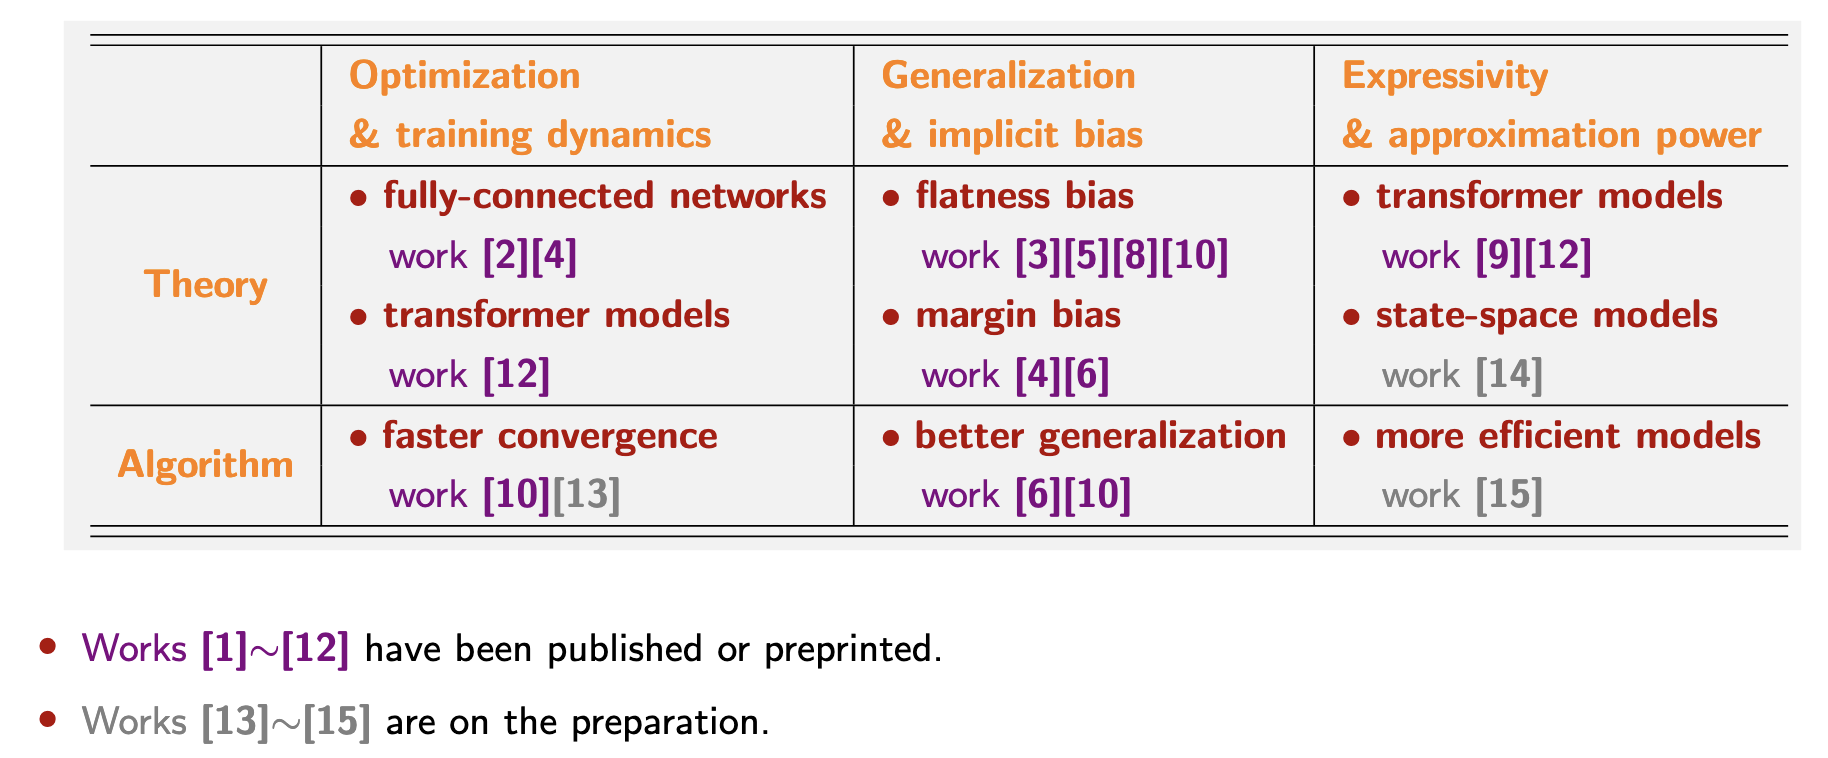
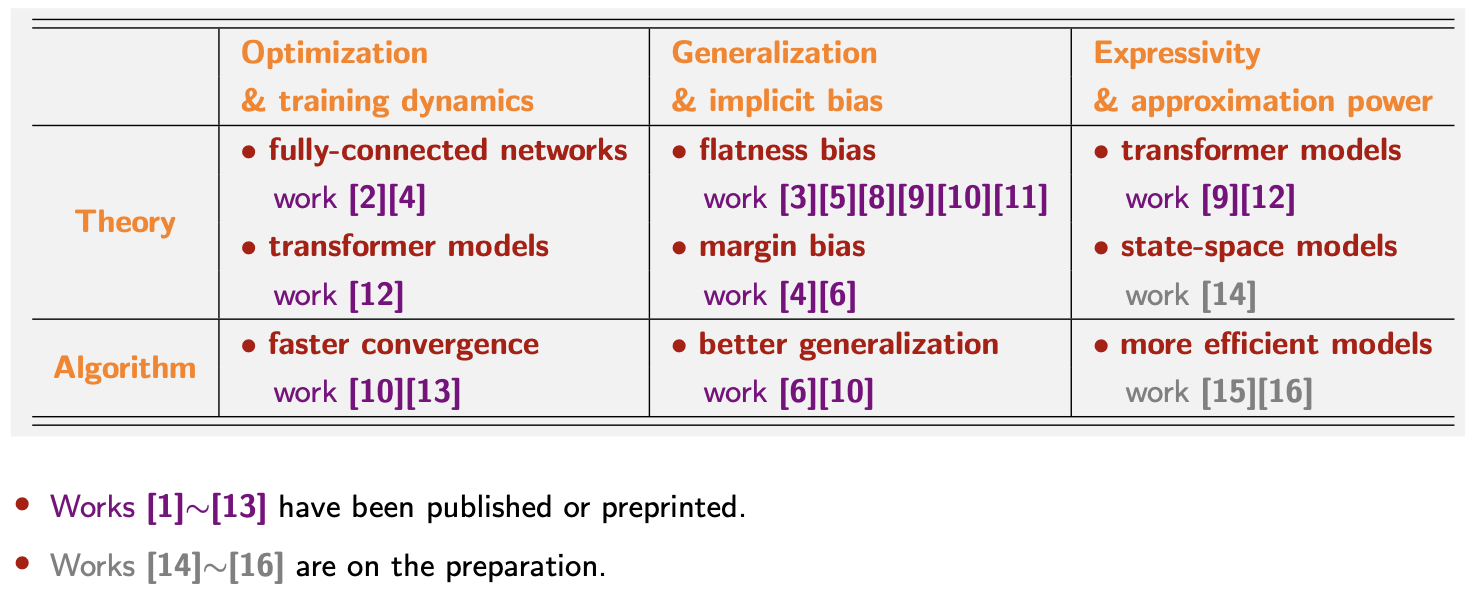
0204

diff --git a/research.html b/research.html
@@ -40,26 +40,26 @@
 </li>
 <li><p><tt>Generalization</tt>: How to measure the generalization ability of neural networks. [1]</p>
 </li>
-<li><p><tt>Algorithm Design</tt>: For machine learning problems, design new optimization algorithms which can which can (i) converge faster [10]; (ii) generalize better [6][10]</p>
+<li><p><tt>Algorithm Design</tt>: For machine learning problems, design new optimization algorithms which can which can (i) converge faster [10]; (ii) generalize better [6][10][13]</p>
 </li></ul>
 </li>
-<li><p><b>Transformer and Large Language Model</b>: theory and algorithm. [8][10][12]</p>
+<li><p><b>Transformer and Large Language Model</b>: theory and algorithm. [8][10][12][13]</p>
 <ul>
 <li><p><tt>Expressive Power</tt>: The expressive power and mechanisms of Transformer [8][12]; the mechanisms of in-context learning[12]; the expressivity of state-space models.</p>
 </li>
-<li><p><tt>Algorithm Design</tt>: Design faster optimizers for training LLMs [10]; design more efficient model architectures; design more efficient strategy for data selection</p>
+<li><p><tt>Algorithm Design</tt>: Design faster optimizers for training LLMs [10][13]; design more efficient model architectures; design more efficient strategy for data selection</p>
 </li></ul>
 </li>
-<li><p><b>Non-convex and Convex Optimization</b>: theory and algorithm. [2][4][6][10][11][12]</p>
+<li><p><b>Non-convex and Convex Optimization</b>: theory and algorithm. [2][4][6][10][11][12][13]</p>
 <ul>
 <li><p><tt>Convex Optimization in ML</tt>. [6]</p>
 </li>
-<li><p><tt>Non-convex Optimization in ML</tt>. [2][4][10][11][12]</p>
+<li><p><tt>Non-convex Optimization in ML</tt>. [2][4][10][11][12][13]</p>
 </li>
-<li><p><tt>Algorithm Design</tt>: Design faster optimizers for training neural networks [10]; accelerate the convergence for the problems with specific structure [6].</p>
+<li><p><tt>Algorithm Design</tt>: Design faster optimizers for training neural networks [10][13]; accelerate the convergence for the problems with specific structure [6].</p>
 </li></ul>
 </li>
-<li><p><b>CV and NLP</b>: algorithm and application. [7]</p>
+<li><p><b>CV and NLP</b>: algorithm and application. [7][10][13]</p>
 </li>
 </ul>
 <h2>Recent Publications and Preprints</h2>

diff --git a/index.html b/index.html
@@ -76,13 +76,13 @@ Beijing, China, 100084<br /></p>
 <p>Recently, I am dedicated to use theory to design algorithms elegantly. </p>
 <p>My recent research topics are</p>
 <ul>
-<li><p><b>Deep Learning Theory</b>: <b>optimization</b>, <b>generalization</b>, <b>implicit bias</b>, and <b>expressivity</b>. [1][2][3][4][5][6][8][9][10][11][12]</p>
+<li><p><b>Deep Learning Theory</b>: <b>optimization</b>, <b>generalization</b>, <b>implicit bias</b>, and <b>expressivity</b>. [1][2][3][4][5][6][8][9][10][11][12][13]</p>
 </li>
-<li><p><b>Transformer</b> and <b>Large Language Model</b>: theory and algorithm. [8][10][12]</p>
+<li><p><b>Transformer</b> and <b>Large Language Model</b>: theory and algorithm. [8][10][12][13]</p>
 </li>
-<li><p><b>Non-convex</b> and <b>Convex Optimization</b>: theory and algorithm. [2][4][6][10][11][12]</p>
+<li><p><b>Non-convex</b> and <b>Convex Optimization</b>: theory and algorithm. [2][4][6][10][11][12][13]</p>
 </li>
-<li><p><b>CV and NLP</b>: algorithm and application. [7]</p>
+<li><p><b>CV and NLP</b>: algorithm and application. [7][10][13]</p>
 </li>
 </ul>
 <p>Specifically, my research on deep learning theory and algorithm can be summarized as:</p>
@@ -147,7 +147,7 @@ arXiv preprint, 1-32, June 2022.</p>
 </li>
 </ul>
 <ul>
-<li><p><tt>China National Scholarship</tt> (<font color=red size=+0.5><b>top 2%</b></font>), The Ministry of Education, 2024.</p>
+<li><p><tt>China National Scholarship</tt> (<font color=red size=+0.5><b>top 0.2%</b></font> in the nation), The Ministry of Education, 2024.</p>
 </li>
 </ul>
 <ul>
@@ -171,7 +171,7 @@ arXiv preprint, 1-32, June 2022.</p>
 </li>
 </ul>
 <ul>
-<li><p><tt>China National Scholarship</tt> (<font color=red size=+0.5><b>top 2%</b></font>), The Ministry of Education, 2019.</p>
+<li><p><tt>China National Scholarship</tt> (<font color=red size=+0.5><b>top 0.2%</b></font> in the nation), The Ministry of Education, 2019.</p>
 </li>
 </ul>
 <h2></h2>

diff --git a/index_Chinese.html b/index_Chinese.html
@@ -77,13 +77,13 @@
 <p>最近，我致力于使用理论来优雅地设计算法。</p>
 <p>我最近的研究课题是</p>
 <ul>
-<li><p><tt>深度学习理论</tt>：<tt>优化理论</tt>、<tt>泛化理论</tt>、<tt>隐式偏好</tt>、<tt>表达能力</tt>。[1][2][3][4][5][6][8][9][10][11][12]</p>
+<li><p><tt>深度学习理论</tt>：<tt>优化理论</tt>、<tt>泛化理论</tt>、<tt>隐式偏好</tt>、<tt>表达能力</tt>。[1][2][3][4][5][6][8][9][10][11][12][13]</p>
 </li>
-<li><p><tt>Transformer</tt>和<tt>大型语言模型</tt>：理论与算法。[8][10][12]</p>
+<li><p><tt>Transformer</tt>和<tt>大型语言模型</tt>：理论与算法。[8][10][12][13]</p>
 </li>
-<li><p><tt>非凸</tt>和<tt>凸优化</tt>：理论与算法。[2][4][6][10][11][12]</p>
+<li><p><tt>非凸</tt>和<tt>凸优化</tt>：理论与算法。[2][4][6][10][11][12][13]</p>
 </li>
-<li><p><tt>CV 和 NLP</tt>：算法与应用。[7]</p>
+<li><p><tt>CV 和 NLP</tt>：算法与应用。[7][10][13]</p>
 </li>
 </ul>
 <p>具体来说，我在深度学习理论和算法方面的研究可以被概括为:</p>
@@ -148,7 +148,7 @@ arXiv preprint, 1-32, June 2022.</p>
 </li>
 </ul>
 <ul>
-<li><p><tt>国家奖学金 (博士)</tt> (<font color=red size=+0.5><b>前 2%</b></font>), 教育部, 2024.</p>
+<li><p><tt>国家奖学金 (博士)</tt> (全国<font color=red size=+0.5><b>前 0.2%</b></font>), 教育部, 2024.</p>
 </li>
 </ul>
 <ul>
@@ -172,7 +172,7 @@ arXiv preprint, 1-32, June 2022.</p>
 </li>
 </ul>
 <ul>
-<li><p><tt>国家奖学金 (本科)</tt> (<font color=red size=+0.5><b>前 2%</b></font>), 教育部, 2019.</p>
+<li><p><tt>国家奖学金 (本科)</tt> (全国<font color=red size=+0.5><b>前 0.2%</b></font>), 教育部, 2019.</p>
 </li>
 </ul>
 <h2></h2>

diff --git a/MENU.html b/MENU.html
@@ -19,7 +19,7 @@ Miscellaneous       <a href="miscellaneous.html">miscellaneous.html</a>
 CV                  <a href="cv.pdf">cv.pdf</a></p>
 <div id="footer">
 <div id="footer-text">
-Page generated 2025-02-02 21:21:26 CST, by <a href="http://jemdoc.jaboc.net/">jemdoc</a>.
+Page generated 2025-02-04 16:22:59 CST, by <a href="http://jemdoc.jaboc.net/">jemdoc</a>.
 </div>
 </div>
 </div>
